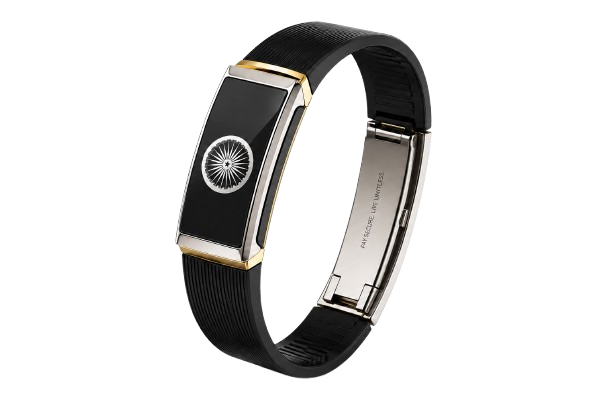
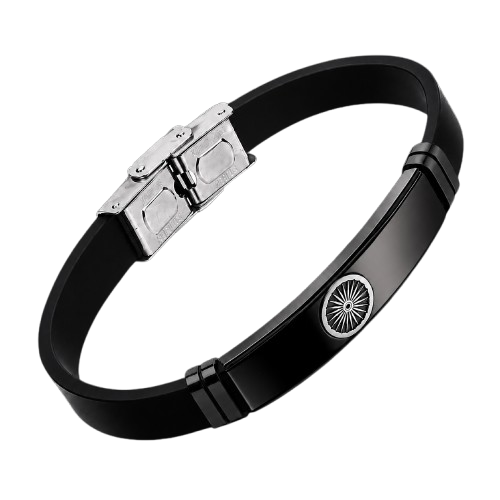
update

diff --git a/src/app/components/Products.tsx b/src/app/components/Products.tsx
@@ -1,145 +1,276 @@
 import { motion } from "motion/react";
-import { useState } from "react";
-import { ImageWithFallback } from "./figma/ImageWithFallback";
-import ring from "../../assets/Ring.png";
-import bracelet from "../../assets/Bracelet.png";
-import keychain from "../../assets/Keychain.png";
+import { Link } from "react-router";
+
+import ring from "../../assets/Ring-preview.png";
+import bracelet from "../../assets/Bracelet-preview.png";
+import keychain from "../../assets/Keychain-preview.png";
 
 const products = [
   {
     id: "ring",
     name: "The Ring",
-    tagline: "Sleek, subtle, and powerful",
+    tagline: "Your Personal Wallet, Always With You",
     description:
-      "Pay with a simple tap of your fist. The most discreet way to carry your wallet.",
+      "Designed for everyday payments, budgeting, and family finance management. Create sub-wallets, control spending limits, and make secure tap-to-pay transactions without carrying cash or cards.",
     features: [
-      "Ultra-thin design",
-      "Premium materials",
-      "Perfect for active lifestyle",
+      "Personal & family sub-wallets",
+      "Spending limit control",
+      "Instant tap-to-pay payments",
     ],
     image: ring,
   },
   {
-    id: "bracelet",
-    name: "The Bracelet",
-    tagline: "A stylish accessory that doubles as your wallet",
-    description:
-      "Perfect for an active lifestyle. Waterproof, durable, and always ready.",
-    features: [
-      "Adjustable fit",
-      "Sport-ready design",
-      "Fashion meets function",
-    ],
-    image: bracelet,
-  },
-  {
     id: "keychain",
     name: "The Keychain",
-    tagline: "The ultimate convenience",
+    tagline: "Built for Business Ecosystems",
     description:
-      "Your keys and your money, all in one place. Never forget your wallet again.",
+      "Ideal for corporate campuses, events, festivals, resorts, and hospitality environments. Enable cashless payments, secure access control, and real-time transaction monitoring from a single wearable.",
     features: [
-      "Compact design",
-      "Durable construction",
-      "Always with you",
+      "Cashless event & vendor payments",
+      "Access control & secure entry",
+      "Real-time reporting & analytics",
     ],
     image: keychain,
+  },
+  {
+    id: "bracelet",
+    name: "The Bracelet",
+    tagline: "Premium Access Beyond Payments",
+    description:
+      "More than a payment wearable. Unlock premium experiences, global currency access, VIP privileges, and exclusive member benefits while enjoying seamless contactless payments.",
+    features: [
+      "Global currency access",
+      "VIP & premium membership benefits",
+      "Higher transaction limits",
+    ],
+    image: bracelet,
   },
 ];
 
 export function Products() {
-  const [activeProduct, setActiveProduct] = useState(0);
-
   return (
-    <section id="products" className="py-24 bg-background">
-      <div className="max-w-7xl mx-auto px-4 sm:px-6 lg:px-8">
+    <section
+      id="products"
+      className="
+    py-32
+    border-b
+    border-border/40
+    relative
+    overflow-hidden
+  "
+    >
+      <div className="absolute inset-0 pointer-events-none">
+        <div className="absolute top-1/2 left-1/2 w-[1200px] h-[1200px] -translate-x-1/2 -translate-y-1/2 rounded-full bg-yellow-500/5 blur-3xl" />
+      </div>
+      {/* Background Glow */}
+      <div className="absolute inset-0 pointer-events-none">
+        <div className="absolute top-1/2 left-1/2 w-[900px] h-[900px] -translate-x-1/2 -translate-y-1/2 rounded-full bg-yellow-500/5 blur-3xl" />
+      </div>
+
+      <div className="max-w-7xl mx-auto px-4 sm:px-6 lg:px-8 relative z-10">
+
+        {/* Heading */}
         <motion.div
           initial={{ opacity: 0, y: 20 }}
           whileInView={{ opacity: 1, y: 0 }}
           viewport={{ once: true }}
-          className="text-center mb-16"
+          className="text-center mb-20"
         >
-          <h2 className="text-4xl sm:text-5xl font-bold mb-4">
-            Your Wallet, {" "}
+          <h2 className="text-4xl sm:text-5xl lg:text-6xl font-bold mb-4">
+            Your Wallet,{" "}
             <span
               style={{
-                background: "linear-gradient(90deg,#D4AF37, #C89B2C)",
+                background:
+                  "linear-gradient(90deg,#D4AF37,#C89B2C)",
                 WebkitBackgroundClip: "text",
                 WebkitTextFillColor: "transparent",
               }}
             >
-              Your style.
+              Your Style.
             </span>
           </h2>
-          <p className="text-xl text-muted-foreground max-w-2xl mx-auto">
+
+          <p className="text-xl text-muted-foreground">
             Choose the wearable that fits your lifestyle
           </p>
         </motion.div>
 
-        <div className="grid lg:grid-cols-2 gap-12 items-center">
-          <motion.div
-            initial={{ opacity: 0, x: -30 }}
-            whileInView={{ opacity: 1, x: 0 }}
-            viewport={{ once: true }}
-            className="space-y-6"
-          >
-            {products.map((product, index) => (
-              <motion.div
-                key={product.id}
-                initial={{ opacity: 0, x: -20 }}
-                whileInView={{ opacity: 1, x: 0 }}
-                viewport={{ once: true }}
-                transition={{ delay: index * 0.1 }}
-                onClick={() => setActiveProduct(index)}
-                className={`p-6 rounded-2xl cursor-pointer transition-all ${
-                  activeProduct === index
-                    ? "bg-primary text-primary-foreground"
-                    : "bg-muted/50 hover:bg-muted"
-                }`}
-              >
-                <h3 className="text-2xl font-semibold mb-2">{product.name}</h3>
-                <p
-                  className={`mb-4 ${
-                    activeProduct === index
-                      ? "text-primary-foreground/80"
-                      : "text-muted-foreground"
-                  }`}
-                >
-                  {product.tagline}
-                </p>
-                <p
-                  className={`text-sm ${
-                    activeProduct === index
-                      ? "text-primary-foreground/70"
-                      : "text-muted-foreground"
-                  }`}
-                >
-                  {product.description}
-                </p>
-              </motion.div>
-            ))}
-          </motion.div>
-
-          <motion.div
-            key={activeProduct}
-            initial={{ opacity: 0, scale: 0.9 }}
-            animate={{ opacity: 1, scale: 1 }}
-            transition={{ duration: 0.5 }}
-            className="relative aspect-square rounded-3xl bg-gradient-to-br from-muted to-muted/50 border border-border overflow-hidden"
-          >
+        <div className="grid lg:grid-cols-3 gap-8">
+          {products.map((product, index) => (
             <motion.div
-              animate={{ rotate: 360 }}
-              transition={{ duration: 20, repeat: Infinity, ease: "linear" }}
-              className="absolute inset-0 bg-gradient-to-r from-primary/5 via-transparent to-primary/5"
-            />
-            <div className="relative w-full h-full p-8 flex items-center justify-center">
-              <ImageWithFallback
-                src={products[activeProduct].image}
-                alt={products[activeProduct].name}
-                className="w-full h-full object-cover rounded-2xl"
-              />
-            </div>
-          </motion.div>
+              key={product.id}
+              initial={{ opacity: 0, y: 40 }}
+              whileInView={{ opacity: 1, y: 0 }}
+              viewport={{ once: true }}
+              transition={{ delay: index * 0.12 }}
+              whileHover={{
+                y: -10,
+                rotateX: 2,
+              }}
+              className="group"
+            >
+              <div
+                className="
+        relative
+        overflow-hidden
+        rounded-[36px]
+        h-full
+
+        border
+
+        border-black/10
+        dark:border-white/10
+
+        bg-white/80
+        dark:bg-zinc-950/80
+
+        backdrop-blur-xl
+
+        shadow-[0_20px_60px_rgba(0,0,0,0.08)]
+        dark:shadow-[0_20px_60px_rgba(0,0,0,0.45)]
+
+        transition-all
+        duration-500
+      "
+              >
+                {/* METALLIC SHINE */}
+                <div
+                  className="
+          absolute
+          inset-0
+          opacity-0
+          group-hover:opacity-100
+          transition-opacity
+          duration-700
+
+          bg-[linear-gradient(120deg,transparent_20%,rgba(255,255,255,0.25)_40%,transparent_60%)]
+        "
+                />
+
+                {/* GOLD GLOW */}
+                <div
+                  className="
+          absolute
+          -top-20
+          left-1/2
+          -translate-x-1/2
+
+          w-[280px]
+          h-[280px]
+
+          rounded-full
+          bg-yellow-500/10
+          blur-3xl
+        "
+                />
+
+                <div className="relative p-8">
+
+                  {/* IMAGE */}
+                  <div className="h-[280px] flex items-center justify-center mb-8">
+                    <img
+                      src={product.image}
+                      alt={product.name}
+                      className="
+              h-full
+              object-contain
+              transition-transform
+              duration-500
+              group-hover:scale-105
+              drop-shadow-[0_0_35px_rgba(212,175,55,0.25)]
+            "
+                    />
+                  </div>
+
+                  {/* TITLE */}
+                  <h3
+                    className="
+    text-3xl
+    font-bold
+    mb-3
+    bg-gradient-to-br
+    from-yellow-300
+    via-yellow-500
+    to-yellow-700
+    bg-clip-text
+    text-transparent
+  "
+                  >
+                    {product.name}
+                  </h3>
+
+                  {/* TAGLINE */}
+                  <p className="text-muted-foreground mb-5 text-lg">
+                    {product.tagline}
+                  </p>
+
+
+                  {/* FEATURES */}
+                  <div className="space-y-4">
+                    {product.features.map((feature) => (
+                      <div
+                        key={feature}
+                        className="flex items-center gap-3"
+                      >
+                        <div className="w-2.5 h-2.5 rounded-full bg-yellow-400" />
+
+                        <span className="text-sm">
+                          {feature}
+                        </span>
+                      </div>
+                    ))}
+                  </div>
+
+                  {/* METALLIC STRIP */}
+                  <div
+                    className="
+            mt-8
+            h-px
+
+            bg-gradient-to-r
+            from-transparent
+            via-yellow-500/30
+            to-transparent
+          "
+                  />
+
+                  {/* CHIP + LEARN MORE */}
+                  <div className="flex justify-end mt-6">
+
+                    <Link
+                      to={
+                        product.id === "ring"
+                          ? "/personnel"
+                          : product.id === "keychain"
+                            ? "/business"
+                            : "/membership"
+                      }
+                      className="
+      px-4 py-2
+      rounded-xl
+      text-sm font-semibold
+      transition-all duration-300
+
+      bg-gradient-to-br
+      from-yellow-300
+      via-yellow-500
+      to-yellow-700
+      opacity-80
+      shadow-lg
+
+      border border-border
+    "
+                    >
+                      Learn More
+                    </Link>
+
+
+
+                  </div>
+                </div>
+              </div>
+            </motion.div>
+          ))}
         </div>
       </div>
     </section>

diff --git a/src/app/pages/HomePage.tsx b/src/app/pages/HomePage.tsx
@@ -15,10 +15,10 @@ export function HomePage() {
   return (
     <>
       <Hero />
+      <Products />
       <HowItWorks />
       <HowItWorksVisual />      
       <UseCases />
-      <Products />    
       <Features />
       <WhyDifferent />
       <RealWorldUsage />  